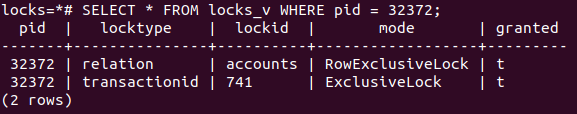
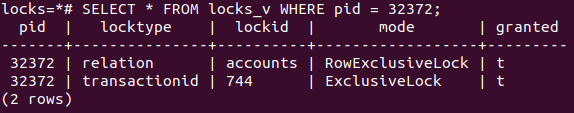
116

diff --git a/homework7/homework7.md b/homework7/homework7.md
@@ -77,9 +77,9 @@
 > Обновим строку в этой транзакции.
 > ```sql
 > UPDATE accounts SET amount = amount + 100.00 WHERE acc_no = 1;
-> SELECT * FROM locks_v WHERE pid = 474;
+> SELECT * FROM locks_v WHERE pid = 32372;
 > ```
-> <image src="images/tr1_lock.png" alt="tr1_lock">
+> <image src="images/tr1_lock_.png" alt="tr1_lock_">
 >
 > Первая транзакция обновляет и, соответственно, блокирует строку, т.е. она удерживает блокировку строки и собственного номера
 
